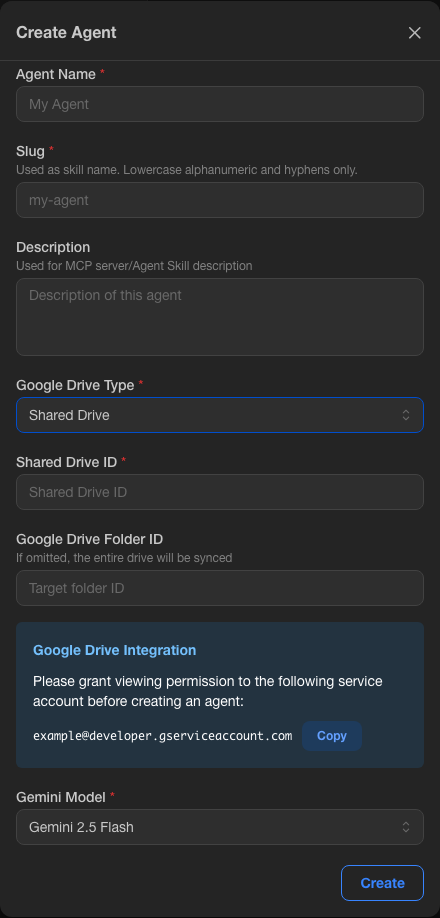
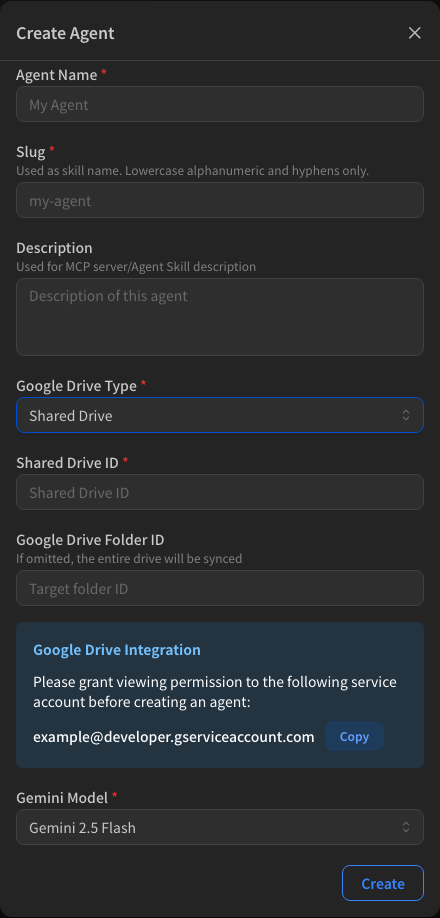
Add Noto Sans JP font support and update screenshot tests

diff --git a/tests/e2e/screenshots.spec.ts b/tests/e2e/screenshots.spec.ts
@@ -4,15 +4,17 @@ import { createAgent } from './_models/agent';
 import { createUser } from './_models/user';
 import { AgentsPage, ChatPage, AdminPage, AdminUsersPage } from './_pages';
 import { clearFirebase } from './_utils/firebase';
+import { getScreenshotFontCss } from './_utils/fonts';
+import type { Page } from '@playwright/test';
 
 const DESKTOP_VIEWPORT = { width: 1600, height: 1000 };
 
-const getScreenshotDir = (projectName: string) => {
-  const isMobile = projectName === 'Mobile Safari';
-  return `docs/screenshots/${isMobile ? 'mobile' : 'desktop'}`;
+const fontCss = getScreenshotFontCss();
+const stabilizePage = async (page: Page): Promise<void> => {
+  await page.waitForLoadState('load');
+  await page.addStyleTag({ content: fontCss });
+  await page.evaluate(() => document.fonts.ready);
 };
-
-const isMobileProject = (projectName: string) => projectName === 'Mobile Safari';
 
 const agentId = 'screenshot-agent';
 const agentName = 'Knowledge Agent';
@@ -24,7 +26,7 @@ const userEmail = 'user@example.com';
 
 test.describe('Screenshot capture', () => {
   test.beforeEach(async ({ page }, testInfo) => {
-    if (!isMobileProject(testInfo.project.name)) {
+    if (testInfo.project.name !== 'mobile') {
       await page.setViewportSize(DESKTOP_VIEWPORT);
     }
   });
@@ -70,12 +72,12 @@ test.describe('Screenshot capture', () => {
   });
 
   test.describe('Sign in pages', () => {
-    test('Sign in page', async ({ page }, testInfo) => {
-      const screenshotDir = getScreenshotDir(testInfo.project.name);
+    test('Sign in page', async ({ page }) => {
       // Show Google auth button by adding ?auth=google parameter
       await page.goto('/sign-in?auth=google');
       await expect(page.getByRole('button', { name: /google/i })).toBeVisible();
-      await page.screenshot({ path: `${screenshotDir}/sign-in.png`, fullPage: true });
+      await stabilizePage(page);
+      await expect(page).toHaveScreenshot('sign-in.png', { fullPage: true });
     });
   });
 
@@ -85,33 +87,32 @@ test.describe('Screenshot capture', () => {
       await agentsPage.signIn(adminEmail, 'password');
     });
 
-    test('Agents list', async ({ page }, testInfo) => {
-      const screenshotDir = getScreenshotDir(testInfo.project.name);
+    test('Agents list', async ({ page }) => {
       const agentsPage = new AgentsPage(page);
       await agentsPage.goto();
       await expect(agentsPage.pageTitle).toBeVisible();
       await expect(agentsPage.agentCard(agentName)).toBeVisible();
-      await page.screenshot({ path: `${screenshotDir}/agents.png`, fullPage: true });
+      await stabilizePage(page);
+      await expect(page).toHaveScreenshot('agents.png', { fullPage: true });
     });
 
     test('Create agent dialog (My Drive)', async ({ page }, testInfo) => {
-      const screenshotDir = getScreenshotDir(testInfo.project.name);
       // Expand viewport to fit the entire dialog (desktop only)
-      if (!isMobileProject(testInfo.project.name)) {
+      if (testInfo.project.name !== 'mobile') {
         await page.setViewportSize({ width: 1600, height: 1200 });
       }
       const agentsPage = new AgentsPage(page);
       await agentsPage.goto();
       await agentsPage.createAgentButton.click();
       await expect(agentsPage.agentFormDialog).toBeVisible();
+      await stabilizePage(page);
       // Screenshot only the modal dialog element
-      await agentsPage.agentFormDialog.screenshot({ path: `${screenshotDir}/agent-create-dialog-mydrive.png` });
+      await expect(agentsPage.agentFormDialog).toHaveScreenshot('agent-create-dialog-mydrive.png');
     });
 
     test('Create agent dialog (Shared Drive)', async ({ page }, testInfo) => {
-      const screenshotDir = getScreenshotDir(testInfo.project.name);
       // Expand viewport to fit the entire dialog (desktop only, higher for Shared Drive ID field)
-      if (!isMobileProject(testInfo.project.name)) {
+      if (testInfo.project.name !== 'mobile') {
         await page.setViewportSize({ width: 1600, height: 1300 });
       }
       const agentsPage = new AgentsPage(page);
@@ -120,28 +121,29 @@ test.describe('Screenshot capture', () => {
       await expect(agentsPage.agentFormDialog).toBeVisible();
       await agentsPage.setSelectOption(agentsPage.googleDriveTypeSelect, 'Shared Drive');
       await expect(agentsPage.googleDriveIdInput).toBeVisible();
+      await stabilizePage(page);
       // Screenshot only the modal dialog element
-      await agentsPage.agentFormDialog.screenshot({ path: `${screenshotDir}/agent-create-dialog-shareddrive.png` });
+      await expect(agentsPage.agentFormDialog).toHaveScreenshot('agent-create-dialog-shareddrive.png');
     });
 
-    test('Chat page', async ({ page }, testInfo) => {
-      const screenshotDir = getScreenshotDir(testInfo.project.name);
+    test('Chat page', async ({ page }) => {
       const chatPage = new ChatPage(page, agentId);
       await chatPage.goto();
       await expect(chatPage.pageTitle).toBeVisible();
       await expect(chatPage.messageInput).toBeVisible();
-      await page.screenshot({ path: `${screenshotDir}/agent-chat.png`, fullPage: true });
+      await stabilizePage(page);
+      await expect(page).toHaveScreenshot('agent-chat.png', { fullPage: true });
     });
 
     test('Nav menu (mobile only)', async ({ page }, testInfo) => {
-      test.skip(!isMobileProject(testInfo.project.name), 'Mobile only test');
-      const screenshotDir = getScreenshotDir(testInfo.project.name);
+      test.skip(testInfo.project.name !== 'mobile', 'Mobile only test');
       const agentsPage = new AgentsPage(page);
       await agentsPage.goto();
       await expect(agentsPage.pageTitle).toBeVisible();
       await agentsPage.openMobileMenu();
       await expect(agentsPage.navMenu).toBeVisible();
-      await page.screenshot({ path: `${screenshotDir}/nav-menu.png`, fullPage: true });
+      await stabilizePage(page);
+      await expect(page).toHaveScreenshot('nav-menu.png', { fullPage: true });
     });
   });
 
@@ -151,32 +153,32 @@ test.describe('Screenshot capture', () => {
       await adminPage.signIn(adminEmail, 'password');
     });
 
-    test('Admin home', async ({ page }, testInfo) => {
-      const screenshotDir = getScreenshotDir(testInfo.project.name);
+    test('Admin home', async ({ page }) => {
       const adminPage = new AdminPage(page);
       await adminPage.goto();
       await expect(adminPage.pageTitle).toBeVisible();
-      await page.screenshot({ path: `${screenshotDir}/admin-home.png`, fullPage: true });
+      await stabilizePage(page);
+      await expect(page).toHaveScreenshot('admin-home.png', { fullPage: true });
     });
 
-    test('Admin users', async ({ page }, testInfo) => {
-      const screenshotDir = getScreenshotDir(testInfo.project.name);
+    test('Admin users', async ({ page }) => {
       const usersPage = new AdminUsersPage(page);
       await usersPage.goto();
       await expect(usersPage.pageTitle).toBeVisible();
       await expect(usersPage.userTable).toBeVisible();
-      await page.screenshot({ path: `${screenshotDir}/admin-users.png`, fullPage: true });
+      await stabilizePage(page);
+      await expect(page).toHaveScreenshot('admin-users.png', { fullPage: true });
     });
 
     test('Admin nav menu (mobile only)', async ({ page }, testInfo) => {
-      test.skip(!isMobileProject(testInfo.project.name), 'Mobile only test');
-      const screenshotDir = getScreenshotDir(testInfo.project.name);
+      test.skip(testInfo.project.name !== 'mobile', 'Mobile only test');
       const adminPage = new AdminPage(page);
       await adminPage.goto();
       await expect(adminPage.pageTitle).toBeVisible();
       await adminPage.openMobileMenu();
       await expect(adminPage.navMenu).toBeVisible();
-      await page.screenshot({ path: `${screenshotDir}/admin-nav-menu.png`, fullPage: true });
+      await stabilizePage(page);
+      await expect(page).toHaveScreenshot('admin-nav-menu.png', { fullPage: true });
     });
   });
 });

diff --git a/playwright.config.ts b/playwright.config.ts
@@ -5,7 +5,7 @@ import { defineConfig, devices } from '@playwright/test';
  */
 export default defineConfig({
   testDir: './tests/e2e',
-  fullyParallel: true,
+  fullyParallel: false,
   forbidOnly: !!process.env.CI,
   retries: process.env.CI ? 2 : 0,
   workers: 1,
@@ -13,7 +13,16 @@ export default defineConfig({
   reporter: 'html',
   expect: {
     timeout: 20000,
+    toHaveScreenshot: {
+      maxDiffPixelRatio: process.env.CI ? 0.05 : 0.01,
+      animations: 'disabled',
+      threshold: 0.2,
+      scale: 'css',
+    },
   },
+  snapshotDir: './docs/screenshots',
+  snapshotPathTemplate: '{snapshotDir}/{projectName}/{arg}{ext}',
+  updateSnapshots: 'missing',
   use: {
     baseURL: 'http://localhost:13000',
     trace: 'on-first-retry',
@@ -21,11 +30,11 @@ export default defineConfig({
   },
   projects: [
     {
-      name: 'chromium',
+      name: 'desktop',
       use: { ...devices['Desktop Chrome'] },
     },
     {
-      name: 'Mobile Safari',
+      name: 'mobile',
       use: { ...devices['iPhone 15 Pro Max'] },
     },
   ],

diff --git a/tests/e2e/_utils/fonts.ts b/tests/e2e/_utils/fonts.ts
@@ -1,0 +1,21 @@
+import { readFileSync, existsSync } from 'node:fs';
+import { resolve, join } from 'node:path';
+
+let cache: string | null = null;
+export const getScreenshotFontCss = (): string => {
+  if (cache) return cache;
+
+  const dir = resolve(process.cwd(), 'node_modules/@fontsource/noto-sans-jp/files');
+  const fonts = [400, 500, 600, 700]
+    .flatMap((w) => ['japanese', 'latin'].map((s) => ({ weight: w, subset: s })))
+    .map(({ weight, subset }) => {
+      const file = join(dir, `noto-sans-jp-${subset}-${weight}-normal.woff2`);
+      if (!existsSync(file)) return '';
+      const base64 = readFileSync(file).toString('base64');
+      return `@font-face{font-family:'Noto Sans JP';font-weight:${weight};src:url(data:font/woff2;base64,${base64})format('woff2')}`;
+    })
+    .filter(Boolean);
+
+  cache = `${fonts.join('\n')}\n*{font-family:'Noto Sans JP',sans-serif!important}`;
+  return cache;
+};

diff --git a/CLAUDE.md b/CLAUDE.md
@@ -97,6 +97,12 @@ pnpm test:functions 'src/auth/_tests/beforeUserCreated.test.ts'
 
 # Firestore rules tests
 pnpm test:rules:firestore
+
+# Screenshot tests
+pnpm test:e2e 'tests/e2e/screenshots.spec.ts'
+
+# Update screenshots (when UI changes are intentional)
+pnpm test:e2e 'tests/e2e/screenshots.spec.ts' --update-snapshots=all
 ```
 
 ### Build and Deploy
@@ -217,6 +223,10 @@ Refer to configuration files for details:
 - Always run type check/lint/format after changes
   - `pnpm lint:fix`
   - `pnpm format`
+- When adding new UI (pages/modals/dialogs), add screenshot test cases to `tests/e2e/screenshots.spec.ts` first
+- After making UI changes, you must execute screenshot tests yourself (do not just recommend):
+  - If UI changes are obvious/intentional, directly update snapshots: `pnpm test:e2e 'tests/e2e/screenshots.spec.ts' --update-snapshots=all`
+  - If unsure whether UI changed, first run without flag to check: `pnpm test:e2e 'tests/e2e/screenshots.spec.ts'`
 
 ## Deployment
 
